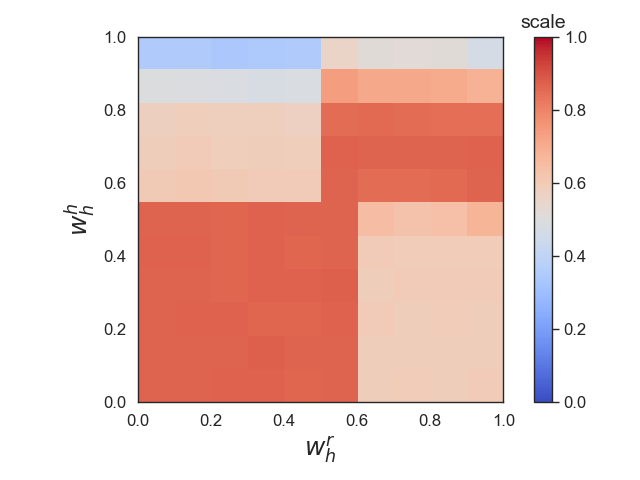
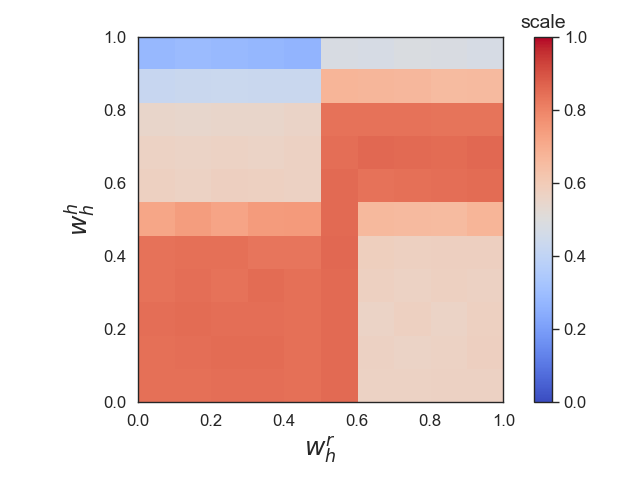
Updated images

Changed region(s): [[0.2188, 0.4062, 0.5, 0.5], [0.375, 0.0625, 0.5625, 0.2188], [0.2188, 0.0625, 0.2812, 0.1562]]

diff --git a/effect-of-value-alignment-code/final-code/plots-for-paper/non-adaptive/threat-level-effect.py b/effect-of-value-alignment-code/final-code/plots-for-paper/non-adaptive/threat-level-effect.py
@@ -12,7 +12,8 @@ from scipy.stats import beta
 sns.set_theme(style='whitegrid', context='paper')
 
 
-def analyze(parent_directory: str, wh_rob: float, wh_hum: float):
+def analyze(parent_directory: str, wh_rob: float, wh_hum: float, ax: plt.Axes,
+            label_x: bool = False, label_y: bool = False):
 
     # Most shapes are (num_simulations, num_sites or num_sites+1)
     # Step 1: Accumulate data
@@ -65,62 +66,43 @@ def analyze(parent_directory: str, wh_rob: float, wh_hum: float):
     # x-axis is wh_rob
     # y-axis is wh_hum
     # Plot ending trust (actual and estimate)
-    fig, ax = plt.subplots(layout='tight')
+    # fig, ax = plt.subplots(layout='tight')
     ax.scatter(threat_level, trust_fb, s=64, c='tab:blue', marker='o', label='Feedback')
 
-    trust_params = [60., 60., 10., 20.]
+    # ax.legend(fontsize=16, loc='lower left')
+    if label_x:
+        ax.set_xlabel(r'$d$', fontsize=16)
+    if label_y:
+        ax.set_ylabel(r'$t_N$', fontsize=16)
 
-    line_width = 4
-
-    if d_star < 1 and wh_hum < 0.5:
-        # Region 2
-        d_arr = np.array(threat_level)
-        lower_bound_of_trust_increase = (1. - d_arr) * beta.cdf(d_star, 4, 28) + d_arr * beta.cdf(d_star, 28, 4)
-        final_exp_alpha = trust_params[0] + lower_bound_of_trust_increase * 40 * trust_params[2]
-        final_exp_beta = trust_params[1] + (1 - lower_bound_of_trust_increase) * 40 * trust_params[3]
-        final_exp_trust = final_exp_alpha / (final_exp_alpha + final_exp_beta)
-        # ax.plot(d_arr, final_exp_trust, lw=line_width, c='black', ls='dashed', label='Expected')
-    elif d_star > 1 and wh_hum > 0.5:
-        # Region 3
-        d_arr = np.array(threat_level)
-        lower_bound_of_trust_increase = (1. - d_arr) * beta.cdf(0.5, 4, 28) + d_arr * beta.cdf(0.5, 28, 4)
-        final_exp_alpha = trust_params[0] + lower_bound_of_trust_increase * 40 * trust_params[2]
-        final_exp_beta = trust_params[1] + (1 - lower_bound_of_trust_increase) * 40 * trust_params[3]
-        final_exp_trust = final_exp_alpha / (final_exp_alpha + final_exp_beta)
-        # ax.plot(d_arr, final_exp_trust, lw=line_width, c='black', ls='dashed', label='Expected')
-    elif d_star < 1 and wh_hum > 0.5:
-        # Region 4
-        d_arr = np.array(threat_level)
-        lower_bound_of_trust_increase = (1. - d_arr) * beta.cdf(d_star, 4, 28) + d_arr
-        final_exp_alpha = trust_params[0] + lower_bound_of_trust_increase * 40 * trust_params[2]
-        final_exp_beta = trust_params[1] + (1 - lower_bound_of_trust_increase) * 40 * trust_params[3]
-        final_exp_trust = final_exp_alpha / (final_exp_alpha + final_exp_beta)
-        # ax.plot(d_arr, final_exp_trust, lw=line_width, c='black', ls='dashed', label='Expected')
-    else:
-        # Region 1
-        d_arr = np.array(threat_level)
-        final_exp_alpha = trust_params[0] + 40 * trust_params[2]
-        final_exp_beta = trust_params[1]
-        final_exp_trust = final_exp_alpha / (final_exp_alpha + final_exp_beta) * np.ones_like(d_arr)
-        # ax.plot(d_arr, final_exp_trust, lw=line_width, c='black', ls='dashed', label='Expected')
-
-    ax.legend(fontsize=16, loc='lower left')
-    ax.set_xlabel(r'$d$', fontsize=16)
-    ax.set_ylabel(r'End-of-mission trust $t_N$', fontsize=16)
     ax.set_ylim([-0.05, 1.05])
-    plt.yticks(fontsize=14)
-    plt.xticks(fontsize=14)
-    ax.set_title(r'End-of-mission trust, $w_h^r={:1.1f}$, $w_h^h={:1.1f}$'.format(wh_rob, wh_hum), fontsize=16)
-
-    plt.show()
+    ax.set_title(r'$w_h^r={:1.1f}$, $w_h^h={:1.1f}$'.format(wh_rob, wh_hum), fontsize=16)
 
 
 def main():
 
-    parent_directory = os.path.join('..', '..', 'varying-threat-level', 'data', 'OneStepOptimal')
-    wh_rob = 0.5
+    # parent_directory = os.path.join('..', '..', 'varying-threat-level', 'data', 'BoundedRational')
+    parent_directory = os.path.join('..', '..', 'varying-threat-level', 'data', 'ReversePsychology')
+
+    fig, axs = plt.subplots(nrows=2, ncols=2, sharex=True, sharey=True, figsize=(8, 6), layout='tight')
+
+    wh_rob = 0.3
     wh_hum = 0.3
-    analyze(parent_directory, wh_rob, wh_hum)
+    analyze(parent_directory, wh_rob, wh_hum, axs[0, 0], label_y=True)
+
+    wh_rob = 0.3
+    wh_hum = 0.7
+    analyze(parent_directory, wh_rob, wh_hum, axs[0, 1])
+
+    wh_rob = 0.7
+    wh_hum = 0.3
+    analyze(parent_directory, wh_rob, wh_hum, axs[1, 0], label_x=True, label_y=True)
+
+    wh_rob = 0.7
+    wh_hum = 0.7
+    analyze(parent_directory, wh_rob, wh_hum, axs[1, 1], label_x=True)
+
+    plt.show()
 
 
 if __name__ == "__main__":

diff --git a/effect-of-value-alignment-code/final-code/varying-weights/Utils.py b/effect-of-value-alignment-code/final-code/varying-weights/Utils.py
@@ -9,17 +9,21 @@ def add_common_args(parser: argparse.ArgumentParser):
 
     parser.add_argument('--kappa', type=float, help='rationality coefficient (default: 0.2)', default=0.2)
 
-    parser.add_argument('--trust-params',
-                        type=int,
-                        help='Trust parameters for the human (0-low, 1-mid, 2-high), default=1',
-                        default=1)
+    # parser.add_argument('--trust-params',
+    #                     type=int,
+    #                     help='Trust parameters for the human (0-low, 1-mid, 2-high), default=1',
+    #                     default=1)
 
-    parser.add_argument('--num-sites', type=int, help='Number of sites in a mission (default: 20)', default=20)
+    parser.add_argument('--num-sites',
+                        type=int, help='Number of sites in a mission (default: 20)', default=20)
+
     parser.add_argument('--num-missions', type=int, help='Number of missions (default: 1)', default=1)
+
     parser.add_argument('--print-flag', type=bool, help="Flag to print the data to output (default: False)",
                         default=False)
 
-    parser.add_argument('--num-simulations', type=int, help='Number of simulations to run (default: 40)', default=40)
+    parser.add_argument('--num-simulations',
+                        type=int, help='Number of simulations to run (default: 40)', default=40)
 
     parser.add_argument('--posterior-stepsize', type=float,
                         help='Stepsize in the posterior distribution (default(0.05)', default=0.05)
@@ -54,7 +58,7 @@ def add_common_args(parser: argparse.ArgumentParser):
                         type=int,
                         help='Human model to be used to simulate the human - 0:bounded rational, 1:reverse psychology, '
                              '2:one step optimal',
-                        default=2)
+                        default=1)
     return parser
 
 

diff --git a/effect-of-value-alignment-code/final-code/classes/ParamsGenerator.py b/effect-of-value-alignment-code/final-code/classes/ParamsGenerator.py
@@ -10,7 +10,8 @@ prob_oscillator = 1.0 - prob_bdm - prob_disbeliever
 
 class TrustParamsGenerator:
 
-    def __init__(self, seed=123, add_noise=True):
+    def __init__(self, seed=123, add_noise=False):
+        self.params_list = None
         self.seed = seed
         self.rng = np.random.default_rng(seed)
         self.add_noise = add_noise
@@ -55,7 +56,7 @@ class TrustParamsGenerator:
                 self.params[key] = self.bdm_dict[key][index]
                 if self.add_noise:
                     self.params[key] += self.generate_noise()
-                    self.params[key] = max(self.params[key], 0.)
+                    self.params[key] = max(self.params[key], 2.0)
         # If disbeliever
         elif choice == 1:
             index = self.rng.choice(self.num_disbelievers)
@@ -63,7 +64,7 @@ class TrustParamsGenerator:
                 self.params[key] = self.disbeliever_dict[key][index]
                 if self.add_noise:
                     self.params[key] += self.generate_noise()
-                    self.params[key] = max(self.params[key], 0.)
+                    self.params[key] = max(self.params[key], 2.0)
         # If oscillator
         elif choice == 2:
             index = self.rng.choice(self.num_oscillators)
@@ -71,9 +72,10 @@ class TrustParamsGenerator:
                 self.params[key] = self.oscillator_dict[key][index]
                 if self.add_noise:
                     self.params[key] += self.generate_noise()
-                    self.params[key] = max(self.params[key], 0.)
+                    self.params[key] = max(self.params[key], 2.0)
 
-        return self.params
+        self.params_list = [self.params['Alpha'], self.params['Beta'], self.params['ws'], self.params['wf']]
+        return self.params_list
 
 # OLD METHOD WITH INDEPENDENT HISTOGRAMS ##############################################################################
 # bdm_hist = {

diff --git a/effect-of-value-alignment-code/final-code/varying-weights/run_multiple.py b/effect-of-value-alignment-code/final-code/varying-weights/run_multiple.py
@@ -12,7 +12,7 @@ def main():
     # Add specific arguments for this script
     parser.add_argument('--wh-start', type=float, help='health weight to start the grid (default:0.0)', default=0.0)
     parser.add_argument('--wh-end', type=float, help='health weight to end the grid (default:1.0)', default=1.0)
-    parser.add_argument('--grid-step', type=float, help='stepsize on the weights grid (default:0.05)', default=0.1)
+    parser.add_argument('--grid-step', type=float, help='stepsize on the weights grid (default:0.1)', default=0.1)
 
     args = parser.parse_args()
     stepsize = args.grid_step
@@ -24,8 +24,8 @@ def main():
     wh_list = [wh_start + stepsize * i for i in range(num_weights)]
     # wh_list = [0.7, 0.85, 1.0]
     wh_list_all = [stepsize * i for i in range(int(1 / stepsize) + 1)]
-    parent_directory = "./data/OneStepOptimal/{:1.1f}/wh_start_{:1.2f}/".format(args.threat_level,
-                                                                                args.wh_start)
+    parent_directory = "./data/ReversePsychology/{:1.1f}/wh_start_{:1.2f}/".format(args.threat_level,
+                                                                                 args.wh_start)
 
     for wh_rob in wh_list_all:
         args.health_weight_robot = wh_rob

diff --git a/effect-of-value-alignment-code/final-code/varying-threat-level/run_multiple.py b/effect-of-value-alignment-code/final-code/varying-threat-level/run_multiple.py
@@ -12,7 +12,7 @@ def main():
     # Add specific arguments for this script
     parser.add_argument('--d-start', type=float, help='Threat level to start the simulation (default:0.0)', default=0.0)
     parser.add_argument('--d-end', type=float, help='Threat level to start the simulation (default:1.0)', default=1.0)
-    parser.add_argument('--grid-step', type=float, help='stepsize on the weights grid (default:0.01)', default=0.05)
+    parser.add_argument('--grid-step', type=float, help='stepsize on the weights grid (default:0.05)', default=0.05)
 
     args = parser.parse_args()
     stepsize = args.grid_step
@@ -22,7 +22,7 @@ def main():
     num_levels = int((d_end - d_start) / stepsize) + 1
 
     d_list = [d_start + stepsize * i for i in range(num_levels)]
-    data_directory = "./data/OneStepOptimal/rob{:1.1f}/hum{:1.1f}/".format(args.health_weight_robot,
+    data_directory = "./data/ReversePsychology/rob{:1.1f}/hum{:1.1f}/".format(args.health_weight_robot,
                                                                               args.health_weight_human)
 
     for d in d_list:

diff --git a/effect-of-value-alignment-code/final-code/varying-threat-level/Utils.py b/effect-of-value-alignment-code/final-code/varying-threat-level/Utils.py
@@ -14,10 +14,10 @@ def add_common_args(parser: argparse.ArgumentParser):
                         help='rationality coefficient (default: 0.2)',
                         default=0.2)
 
-    parser.add_argument('--trust-params',
-                        type=int,
-                        help='Trust parameters for the human (0-low, 1-mid, 2-high), default=1',
-                        default=1)
+    # parser.add_argument('--trust-params',
+    #                     type=int,
+    #                     help='Trust parameters for the human (0-low, 1-mid, 2-high), default=1',
+    #                     default=1)
 
     parser.add_argument('--num-sites',
                         type=int,
@@ -94,7 +94,7 @@ def add_common_args(parser: argparse.ArgumentParser):
                         type=int,
                         help='Human model to be used to simulate the human - 0:bounded rational, 1:reverse psychology, '
                              '2:disuse',
-                        default=2)
+                        default=1)
 
     return parser
 

diff --git a/effect-of-value-alignment-code/final-code/varying-weights/run_multiple_adaptive.py b/effect-of-value-alignment-code/final-code/varying-weights/run_multiple_adaptive.py
@@ -12,7 +12,7 @@ def main():
     # Add specific arguments for this script
     parser.add_argument('--wh-start', type=float, help='health weight to start the grid (default:0.0)', default=0.0)
     parser.add_argument('--wh-end', type=float, help='health weight to end the grid (default:1.0)', default=1.0)
-    parser.add_argument('--grid-step', type=float, help='stepsize on the weights grid (default:0.1)', default=0.1)
+    parser.add_argument('--grid-step', type=float, help='stepsize on the weights grid (default:0.05)', default=0.05)
 
     args = parser.parse_args()
     stepsize = args.grid_step
@@ -22,7 +22,7 @@ def main():
     num_weights = int((wh_end - wh_start) / stepsize) + 1
 
     wh_list = [wh_start + stepsize * i for i in range(num_weights)]
-    parent_directory = "./data/OneStepOptimal/Adaptive/{:1.1f}".format(args.threat_level)
+    parent_directory = "./data/ReversePsychology/Adaptive/{:1.1f}".format(args.threat_level)
 
     for wh_hum in wh_list:
         timestamp = time.strftime("%Y%m%d-%H%M%S") + '/'

diff --git a/effect-of-value-alignment-code/final-code/plots-for-paper/non-adaptive/regions-2d-separate.py b/effect-of-value-alignment-code/final-code/plots-for-paper/non-adaptive/regions-2d-separate.py
@@ -125,9 +125,9 @@ def main():
 
     fig = plt.figure(layout='tight')
     ax1 = fig.add_subplot(111)
-    # parent_directory = path.join("..", "..", "varying-weights", "data", "ReversePsychology", "0.7")
-    parent_directory = path.join("..", "..", "varying-weights", "data", "OneStepOptimal", "0.3")
-    # parent_directory = path.join("..", "..", "varying-weights", "data", "BoundedRational", "0.7")
+    parent_directory = path.join("..", "..", "varying-weights", "data", "ReversePsychology", "0.3")
+    # parent_directory = path.join("..", "..", "varying-weights", "data", "OneStepOptimal", "0.3")
+    # parent_directory = path.join("..", "..", "varying-weights", "data", "BoundedRational", "0.3")
     ax1 = analyze(parent_directory, ax1, cmap_str)
 
     cmap = plt.get_cmap(cmap_str)

diff --git a/effect-of-value-alignment-code/final-code/varying-threat-level/run_multiple_adaptive.py b/effect-of-value-alignment-code/final-code/varying-threat-level/run_multiple_adaptive.py
@@ -22,7 +22,7 @@ def main():
     num_levels = int((d_end - d_start) / stepsize) + 1
 
     d_list = [d_start + stepsize * i for i in range(num_levels)]
-    data_directory = "./data/OneStepOptimal/Adaptive/hum{:1.1f}/".format(args.health_weight_human)
+    data_directory = "./data/ReversePsychology/Adaptive/hum{:1.1f}/".format(args.health_weight_human)
 
     for d in d_list:
         timestamp = time.strftime("%Y%m%d-%H%M%S") + '/'

diff --git a/effect-of-value-alignment-code/final-code/plots-for-paper/adaptive/weight.py b/effect-of-value-alignment-code/final-code/plots-for-paper/adaptive/weight.py
@@ -71,8 +71,8 @@ def analyze(parent_directory: str, threat_level: float):
 
 
 def main():
-    parent_directory = path.join('..', '..', 'varying-weights', 'data', 'OneStepOptimal', 'Adaptive')
-    threat_level = 0.7
+    parent_directory = path.join('..', '..', 'varying-weights', 'data', 'BoundedRational', 'Adaptive')
+    threat_level = 0.3
     analyze(parent_directory, threat_level)
 
 

diff --git a/effect-of-value-alignment-code/final-code/plots-for-paper/adaptive/threat.py b/effect-of-value-alignment-code/final-code/plots-for-paper/adaptive/threat.py
@@ -72,8 +72,8 @@ def analyze(parent_directory: str, wh_hum: float):
 
 
 def main():
-    parent_directory = os.path.join('..', '..', 'varying-threat-level', 'data', 'OneStepOptimal', 'Adaptive')
-    wh_hum = 0.3
+    parent_directory = os.path.join('..', '..', 'varying-threat-level', 'data', 'BoundedRational', 'Adaptive')
+    wh_hum = 0.7
     analyze(parent_directory, wh_hum)
 
 
